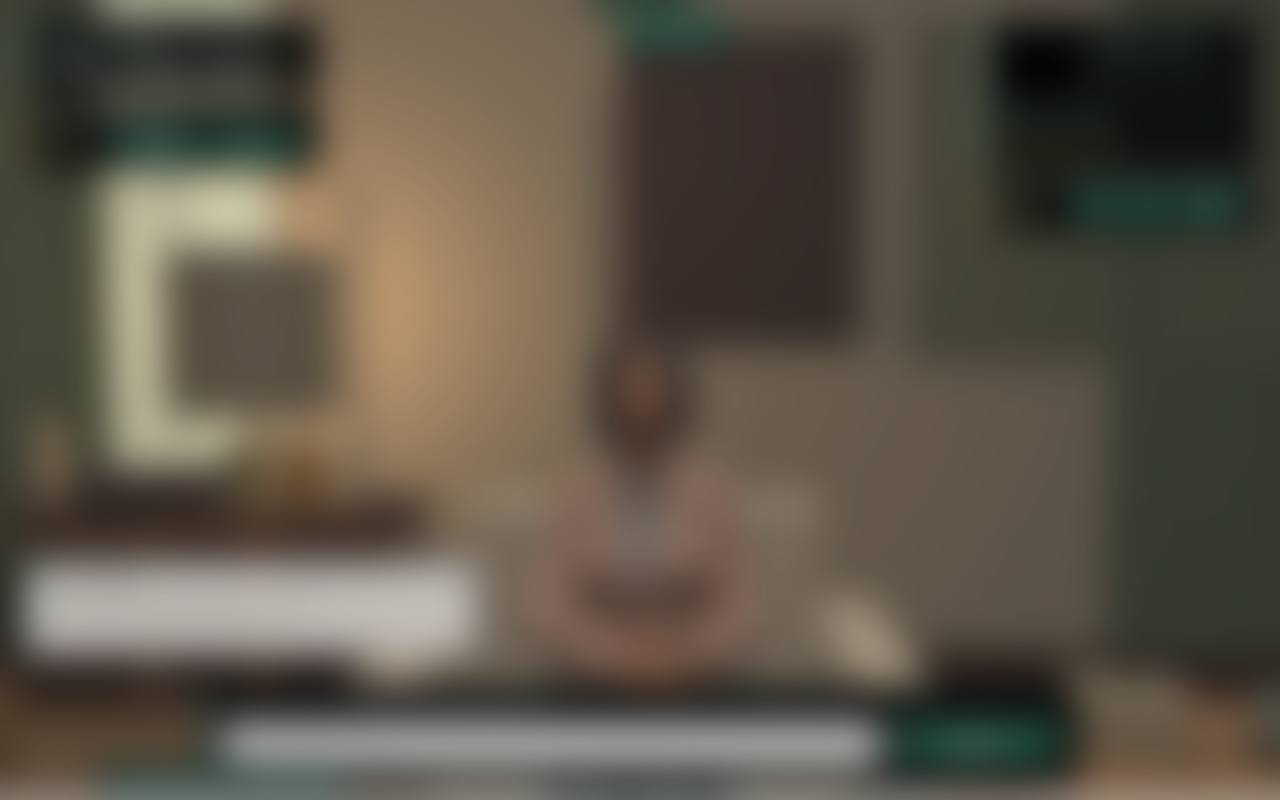
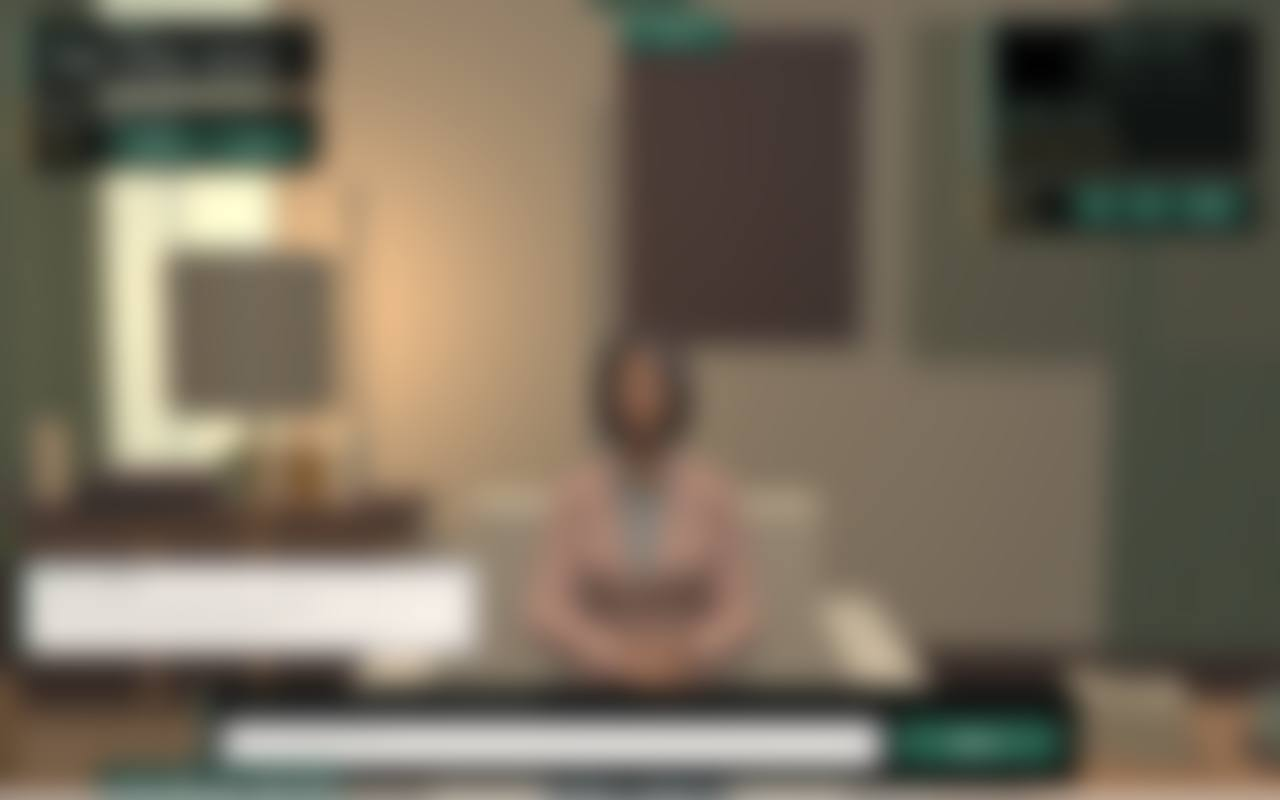
Lighten WebGL loading overlay so the background reads
Radial overlay keeps the logo/progress/notice legible in the center while
the room background shows at the edges; placeholder hero is less dark.

Claude-Session: https://claude.ai/code/session_019oDjsyrVXNftXUeiYhuHmS

diff --git a/Assets/WebGLTemplates/CounselCue/TemplateData/style.css b/Assets/WebGLTemplates/CounselCue/TemplateData/style.css
@@ -15,7 +15,7 @@ body { min-height: 100dvh; }
   position: absolute; inset: 0; z-index: 20; display: none; flex-direction: column;
   align-items: center; justify-content: center; gap: 12px;
   /* Optional Higgsfield still: TemplateData/loading-hero.jpg (see Docs/HIGGSFIELD_ASSET_PACK.md). */
-  background: linear-gradient(#17211ed9, #17211ef2), url("loading-hero.jpg") center / cover no-repeat, #17211e;
+  background: radial-gradient(ellipse at center, #17211ef2 0%, #17211ed1 42%, #17211e8c 100%), url("loading-hero.jpg") center / cover no-repeat, #17211e;
 }
 #unity-loading-note { max-width: min(420px, 80vw); margin-top: 6px; color: #b9cfc2; font-size: 12px; line-height: 1.5; text-align: center; }
 #unity-logo { display: flex; align-items: center; justify-content: center; width: 240px; height: 72px; color: #edf5ef; font-size: 30px; font-weight: 800; letter-spacing: -.03em; }
